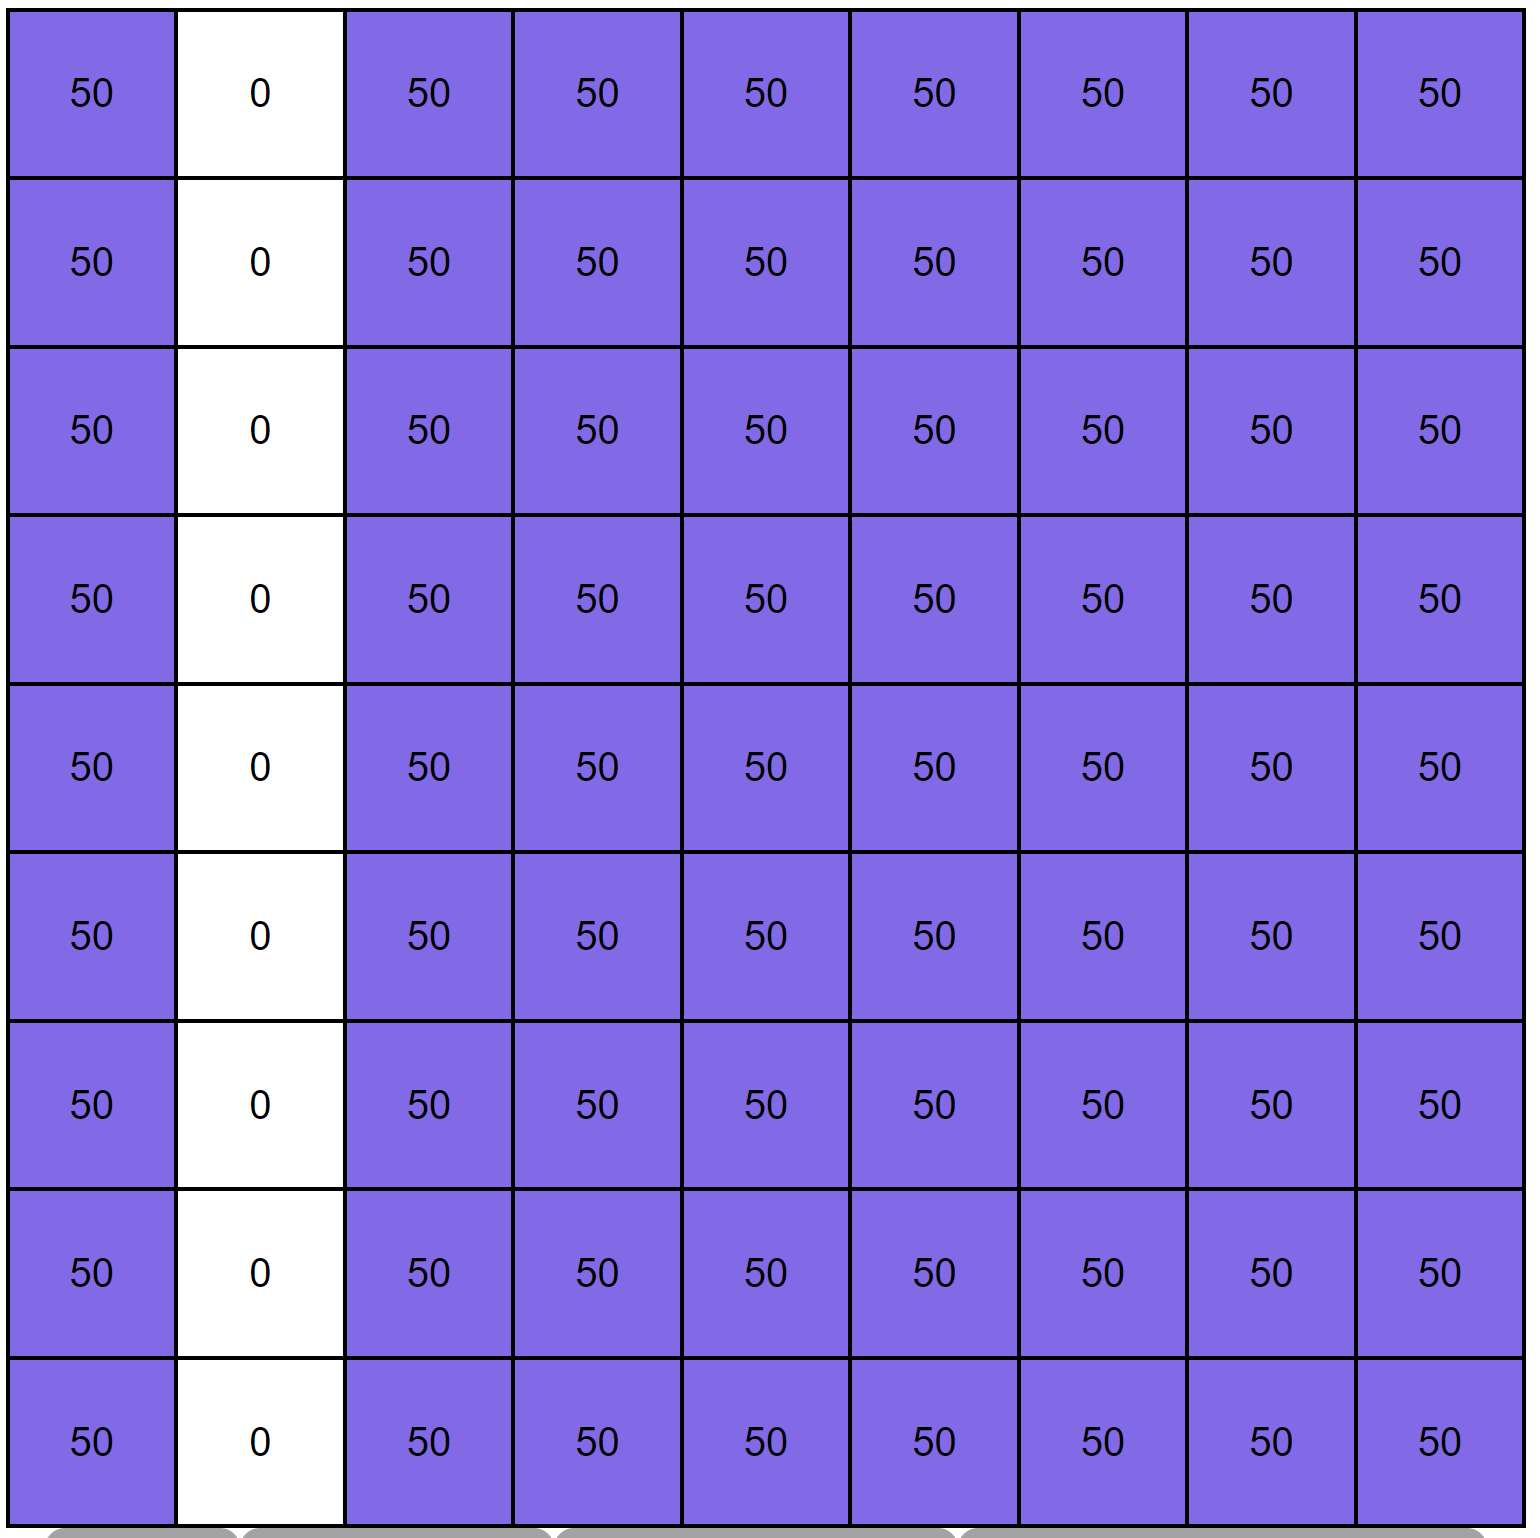
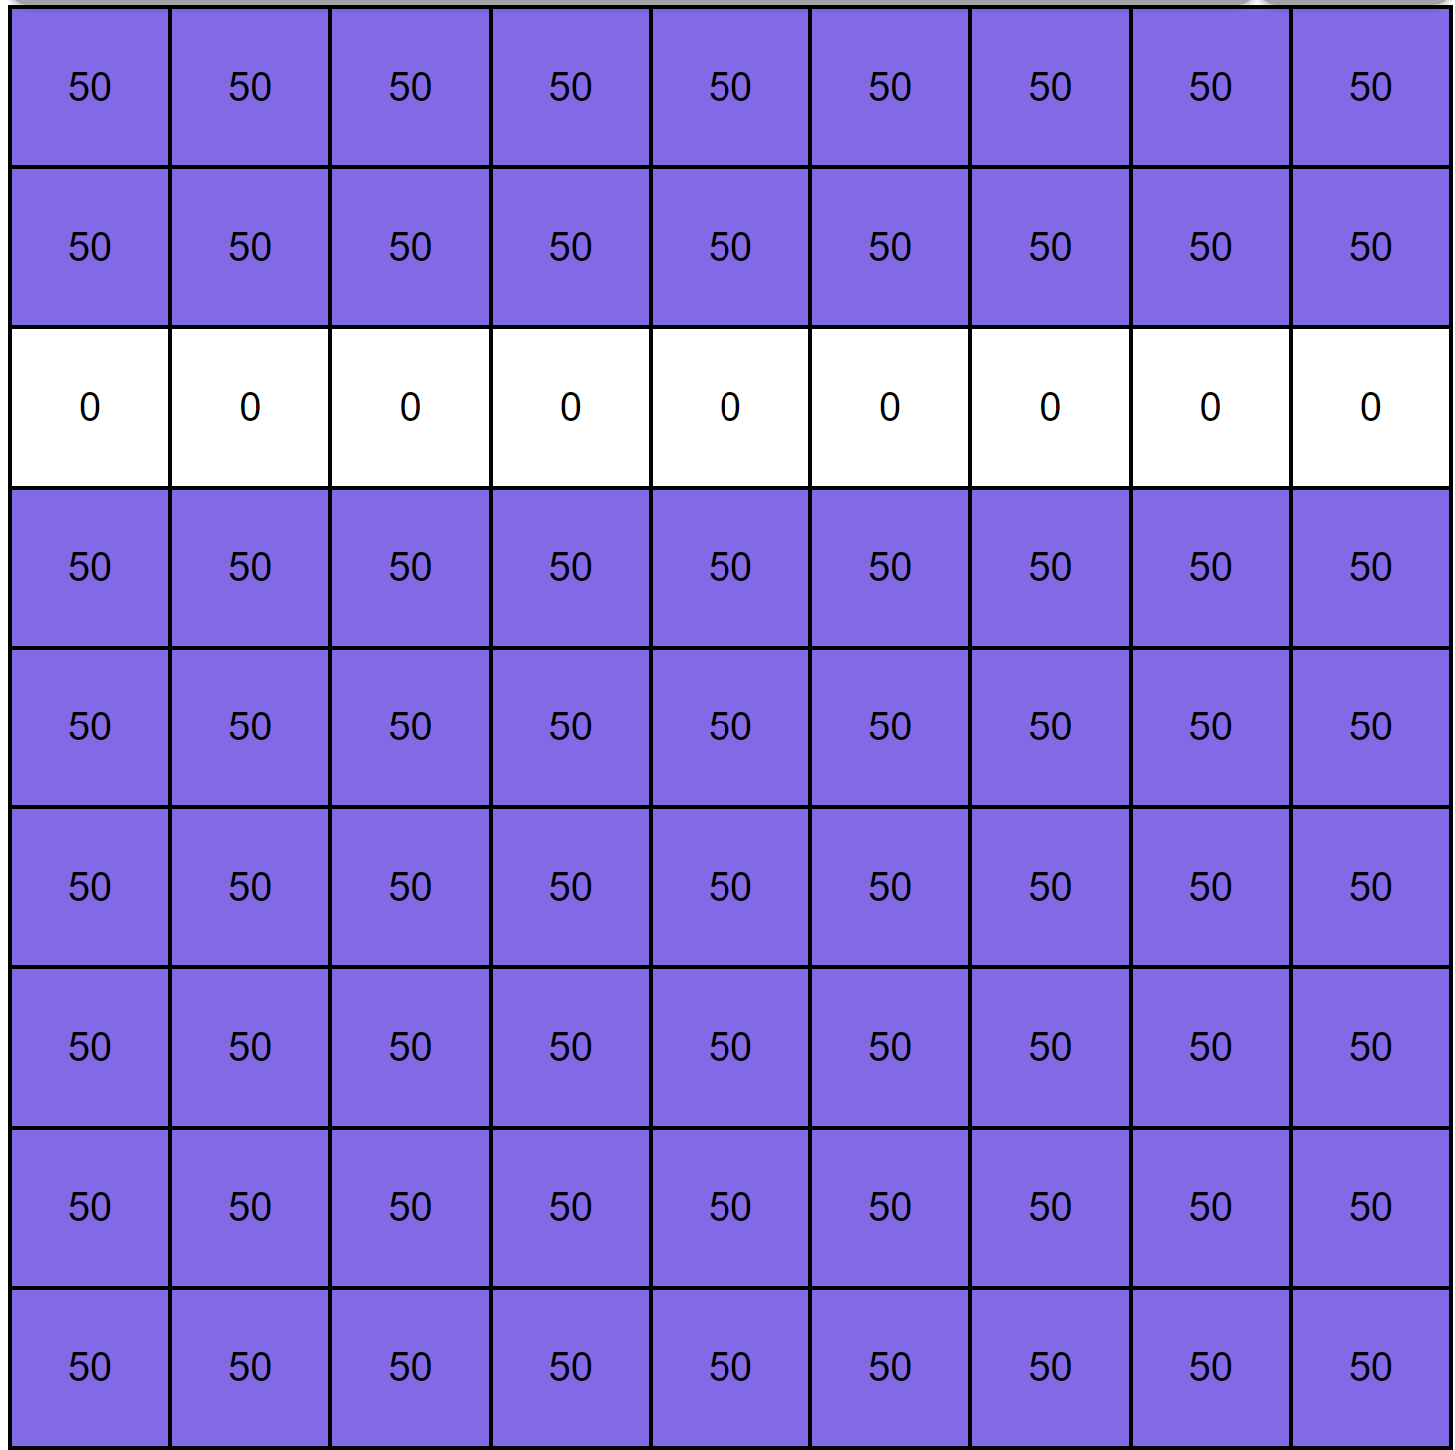
pattern input field

diff --git a/src/components/Patterns.vue b/src/components/Patterns.vue
@@ -1,4 +1,6 @@
-<script setup lang="ts"> 
+<script lang="ts"> 
+import { RouterLink } from "vue-router";
+
 </script>
 <template>
  <div >
@@ -10,9 +12,9 @@
     <h1>Patterns</h1>
     <div class="update">
         <div class = "page">
-                <Router-Link to="/" >
+                <RouterLink to="/" >
                 <img src="src/images/alt.png" alt="alternate rows" width="400" height="400">
-                </Router-Link>
+                </RouterLink>
                 <div class="name">Alternate rows</div>
         </div>
     </div>
@@ -29,7 +31,23 @@
           <Router-Link to="/">
                 <img src="src/images/row off.png" alt="row off" width="400" height="400">
               </Router-Link>
-                <div class="name">Alternate rows</div>
+                <div class="name">Row off</div>
+        </div>
+    </div>
+    <div class="update">
+        <div class = "page">
+          <Router-Link to="/">
+                <img src="src/images/col off.png" alt="row off" width="400" height="400">
+              </Router-Link>
+                <div class="name">column off</div>
+        </div>
+    </div>
+    <!--<div class="update">
+        <div class = "page">
+          <Router-Link to="/">
+                <img src="src/images/row off.png" alt="row off" width="400" height="400">
+              </Router-Link>
+                <div class="name">alternate columns</div>
         </div>
     </div>
     <div class="update">
@@ -37,9 +55,26 @@
           <Router-Link to="/">
                 <img src="src/images/row off.png" alt="row off" width="400" height="400">
               </Router-Link>
-                <div class="name">Alternate rows</div>
+                <div class="name">Middle</div>
         </div>
     </div>
+    <div class="update">
+        <div class = "page">
+          <Router-Link to="/">
+                <img src="src/images/row off.png" alt="row off" width="400" height="400">
+              </Router-Link>
+                <div class="name">CheckerBoard</div>
+        </div>
+    </div>
+
+    <div class="update">
+        <div class = "page">
+          <Router-Link to="/">
+                <img src="src/images/row off.png" alt="row off" width="400" height="400">
+              </Router-Link>
+                <div class="name">Grid</div>
+        </div>
+    </div>-->
     </template>
     
     <style>

diff --git a/src/components/Table.vue b/src/components/Table.vue
@@ -1,4 +1,8 @@
 <template>
+<div class="title">
+<input class ="pattern" id="pattern" type ="text" placeholder="Pattern name">
+<button type="button" @click="getPattern()">Enter</button>
+</div>
 <div class= "layout">
 	<div class = "square">
 		<div class = "content">
@@ -50,7 +54,7 @@
 
 </template>
 ; 
-<script lang="ts">
+<script lang="ts">	
 export default {
 	data() {
 		return {
@@ -66,6 +70,46 @@ export default {
 		console.log(this.grid);
 	},
 	methods: {
+		getPattern(){
+			var input = (<HTMLInputElement>document.getElementById("pattern")).value; 
+			switch(input){
+				case "random":
+					this.randomFill() ; 
+				break; 
+				case "gradient":
+					this.gradient(5, 95, true, true);
+				break; 
+				case "alternate rows": 
+					this.altRows(1, 50, true); 
+				break; 
+				case "row on":
+					this.singleRow(1, 50, true); 
+				break;
+				case "row off":
+					this.singleRow(2, 50, false); 
+				break; 
+				case "alternate columns":
+					this.altCols(1, 50, true); 
+				break; 
+				case "column on":
+					this.singleCol(1, 50, true); 
+				break; 
+				case "column off":
+					this.singleCol(3, 30, false); 
+				break;
+				case "middle":
+					this.middle(50, true); 
+				break;
+				case "grid":
+					this.gridPattern(50,1,2, false);
+				break; 
+				case "checkerboard":
+					this.checkerBoard(1, true);
+				break; 
+
+			}
+			
+		},
 		getColor(row: number, column: number) {
 			const gridValue = this.grid[9 * (row - 1) + column - 1];
 
@@ -256,9 +300,22 @@ td {
 	text-align: center;
 	padding: 0;
 }
+.pattern {
+	color: black;
+    background-color: #65656598;
+	border-radius: 8px;
+  border: 1px solid transparent;
+  box-shadow: 0 2px 2px rgba(0, 0, 0, 0.2);
+}
+
 .button{
 justify-content: flex-end;
 text-align: center;
+}
+.title{
+	display: flex;
+	align-items: center;
+	
 }
 .white {
 	background-color: rgb(255, 255, 255);

diff --git a/src/components/Header.vue b/src/components/Header.vue
@@ -7,9 +7,11 @@
           <button class="dropdown-button">Load File</button>
           <button class="dropdown-button">Save Pattern</button>
         </div>
-        <RouterLink to="/patterns" class="header-button dropButton">Patterns</RouterLink>
+        <RouterLink to="/patterns" class="header-button">Patterns</RouterLink>
       </div>
+      
     </div>
+
     <div class="navbar-select-container">
       <button class="refresh-button" @click="list">Refresh</button>
       <Select :select-options="ports"></Select>

diff --git a/src/components/Home.vue b/src/components/Home.vue
@@ -6,7 +6,7 @@ import Table from "./Table.vue";
 <template>
     <RouterLink to="/help" class="help-link">Help</RouterLink>
     <div class="home-layout">
-        <input type="text" placeholder="Pattern Name" />
+        <!--<input type="text" placeholder="Pattern Name" />-->
         <div class="table-container">
             <Table class="table"></Table>
         </div>
